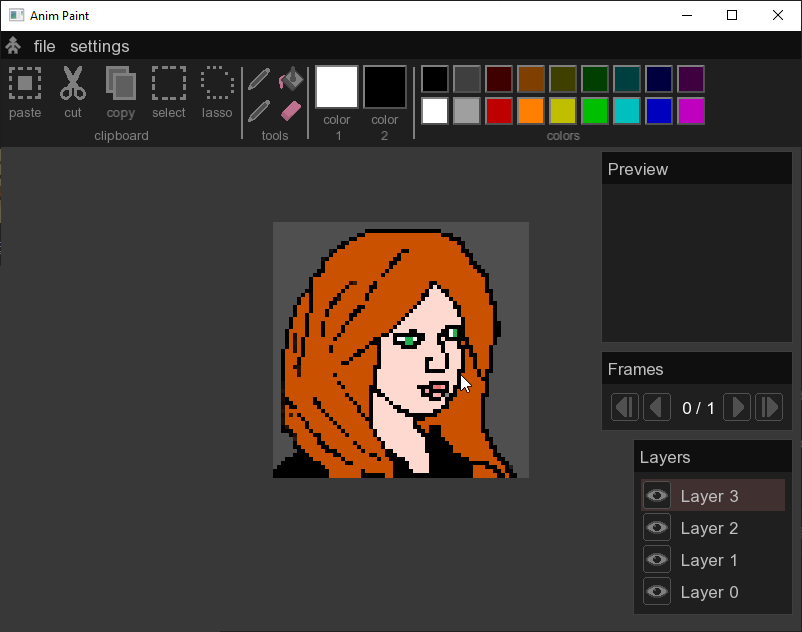
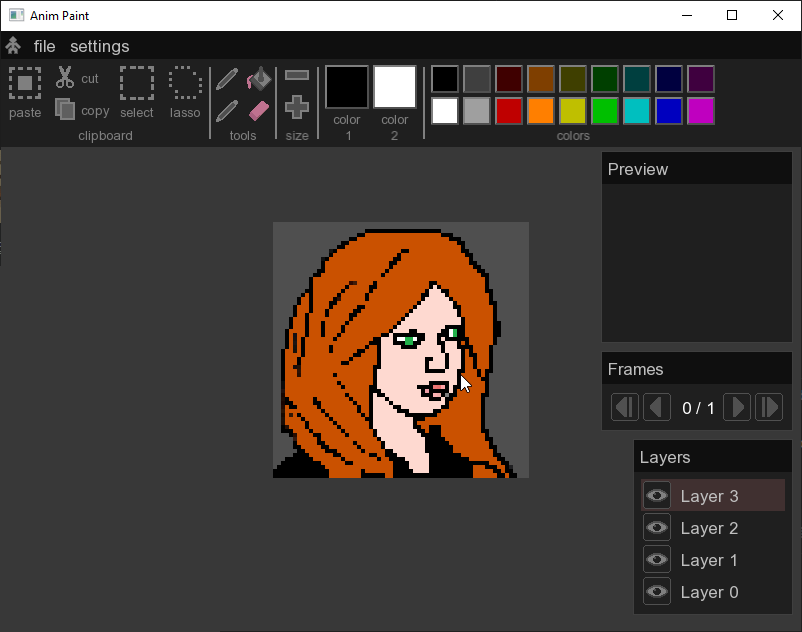
added rect brush for eraser

Changed region(s): [[0.0623, 0.0902, 0.904, 0.2405]]

diff --git a/Anim-Paint/Brush.hpp b/Anim-Paint/Brush.hpp
@@ -1,7 +1,7 @@
 #ifndef Brush_hpp
 #define Brush_hpp
 
-std::vector<std::vector<std::vector<bool>>> brushes = {
+std::vector<std::vector<std::vector<bool>>> circle_brushes = {
 
     // 0 - 1x1
     {
@@ -65,18 +65,93 @@ std::vector<std::vector<std::vector<bool>>> brushes = {
     }
 };
 
+std::vector<std::vector<std::vector<bool>>> square_brushes = {
+
+    // 0 - 1x1
+    {
+        {1}
+    },
+
+    // 1 - 3x3
+    {
+        {1, 1, 1},
+        {1, 1, 1},
+        {1, 1, 1}
+    },
+
+    // 2 - 5x5
+    {
+        {1, 1, 1, 1, 1},
+        {1, 1, 1, 1, 1},
+        {1, 1, 1, 1, 1},
+        {1, 1, 1, 1, 1},
+        {1, 1, 1, 1, 1}
+    },
+
+    // 3 - 7x7
+    {
+        {1, 1, 1, 1, 1, 1, 1},
+        {1, 1, 1, 1, 1, 1, 1},
+        {1, 1, 1, 1, 1, 1, 1},
+        {1, 1, 1, 1, 1, 1, 1},
+        {1, 1, 1, 1, 1, 1, 1},
+        {1, 1, 1, 1, 1, 1, 1},
+        {1, 0, 1, 1, 1, 1, 1}
+    },
+
+    // 4 - 9x9
+    {
+        {1, 1, 1, 1, 1, 1, 1, 1, 1},
+        {1, 1, 1, 1, 1, 1, 1, 1, 1},
+        {1, 1, 1, 1, 1, 1, 1, 1, 1},
+        {1, 1, 1, 1, 1, 1, 1, 1, 1},
+        {1, 1, 1, 1, 1, 1, 1, 1, 1},
+        {1, 1, 1, 1, 1, 1, 1, 1, 1},
+        {1, 1, 1, 1, 1, 1, 1, 1, 1},
+        {1, 1, 1, 1, 1, 1, 1, 1, 1},
+        {1, 1, 1, 1, 1, 1, 1, 1, 1}
+    },
+
+    // 5 - 11x11
+    {
+        {1, 1, 1, 1, 1, 1, 1, 1, 1, 1, 1},
+        {1, 1, 1, 1, 1, 1, 1, 1, 1, 1, 1},
+        {1, 1, 1, 1, 1, 1, 1, 1, 1, 1, 1},
+        {1, 1, 1, 1, 1, 1, 1, 1, 1, 1, 1},
+        {1, 1, 1, 1, 1, 1, 1, 1, 1, 1, 1},
+        {1, 1, 1, 1, 1, 1, 1, 1, 1, 1, 1},
+        {1, 1, 1, 1, 1, 1, 1, 1, 1, 1, 1},
+        {1, 1, 1, 1, 1, 1, 1, 1, 1, 1, 1},
+        {1, 1, 1, 1, 1, 1, 1, 1, 1, 1, 1},
+        {1, 1, 1, 1, 1, 1, 1, 1, 1, 1, 1},
+        {1, 1, 1, 1, 1, 1, 1, 1, 1, 1, 1},
+
+    }
+};
+
+enum class BrushType { Square, Circle };
+
 class Brush {
 public:
-    sf::Vector2i pos_px;
+    BrushType type;
     int size;
+    sf::Vector2i pos_px;
+    
+    
+
 
     Brush(int size) {
-        pos_px = sf::Vector2i(0, 0);
+        type = BrushType::Circle;
         setSize(size);
+        pos_px = sf::Vector2i(0, 0);
     }
 
     ~Brush() {
 
+    }
+
+    void setBrushType(BrushType type) {
+        this->type = type;
     }
 
     void setSize(int size) {
@@ -99,8 +174,20 @@ public:
         this->pos_px = pos_px;
     }
 
+    std::vector<std::vector<bool>> getBrush() {
+
+        if (type == BrushType::Square) {
+            return square_brushes[size];
+        }
+        else {
+            return circle_brushes[size];
+        }
+    }
+
     void draw(sf::Vector2f canvas_position, sf::Vector2i canvas_size, float zoom, float zoom_delta) {
-        const auto& brush = brushes[size];
+        std::vector<std::vector<bool>> brush = getBrush();
+        
+
         const float scale = zoom * zoom_delta;
 
         const int h = static_cast<int>(brush.size());

diff --git a/Anim-Paint/Tools.hpp b/Anim-Paint/Tools.hpp
@@ -170,11 +170,13 @@ public:
 		btn_brush = new NormalButton(getTexture(L"tex\\tools\\btn_brush.png"), getTexture(L"tex\\tools\\btn_brush_hover.png"));
 		btn_brush->onclick_func = [this]() {
 			toolType = ToolType::Brush;
+			brush->setBrushType(BrushType::Circle);
 			selection->state = SelectionState::None;
 			};
 		btn_brush2 = new NormalButton(getTexture(L"tex\\tools\\btn_brush.png"), getTexture(L"tex\\tools\\btn_brush_hover.png"));
 		btn_brush2->onclick_func = [this]() {
 			toolType = ToolType::Brush;
+			brush->setBrushType(BrushType::Circle);
 			selection->state = SelectionState::None;
 			};
 		btn_fill = new NormalButton(getTexture(L"tex\\tools\\btn_fill.png"), getTexture(L"tex\\tools\\btn_fill_hover.png"));
@@ -185,6 +187,7 @@ public:
 		btn_eraser= new NormalButton(getTexture(L"tex\\tools\\btn_eraser.png"), getTexture(L"tex\\tools\\btn_eraser_hover.png"));
 		btn_eraser->onclick_func = [this]() {
 			toolType = ToolType::Eraser;
+			brush->setBrushType(BrushType::Square);
 			selection->state = SelectionState::None;
 			};
 
@@ -204,11 +207,13 @@ public:
 
 		size_decrease = new NormalButton(getTexture(L"tex\\tools\\btn_size_decrease.png"), getTexture(L"tex\\tools\\btn_size_decrease_hover.png"));
 		size_decrease->onclick_func = [this]() {
-			brush->decrease();
+			if (toolType == ToolType::Brush || toolType == ToolType::Eraser)
+				brush->decrease();
 			};
 		size_increase = new NormalButton(getTexture(L"tex\\tools\\btn_size_increase.png"), getTexture(L"tex\\tools\\btn_size_increase_hover.png"));
 		size_increase->onclick_func = [this]() {
-			brush->increase();
+			if(toolType == ToolType::Brush || toolType == ToolType::Eraser)
+				brush->increase();
 			};
 		sizes.clear();
 		sizes.push_back(size_decrease);

diff --git a/Anim-Paint/Canvas.hpp b/Anim-Paint/Canvas.hpp
@@ -122,7 +122,7 @@ public:
 
 	void drawPixels(sf::Color color) {
 
-		std::vector<std::vector<bool>> b = brushes[brush->size];
+		std::vector<std::vector<bool>> b = brush->getBrush();
 
 		for (int y = 0; y < b.size(); y++) {
 			for (int x = 0; x < b[y].size(); x++) {
@@ -148,7 +148,7 @@ public:
 
 	void handleEvent(sf::Event& event) {
 
-		if ((ElementGUI_hovered == this || ElementGUI_hovered == nullptr) && (ElementGUI_pressed == this || ElementGUI_pressed == nullptr)) {
+		if (ElementGUI_hovered == this || ElementGUI_hovered == nullptr) {
 			if (bg_sprite.getGlobalBounds().contains(worldMousePosition)) {
 
 				if (tools->toolType == ToolType::Brush || tools->toolType == ToolType::Eraser) {
